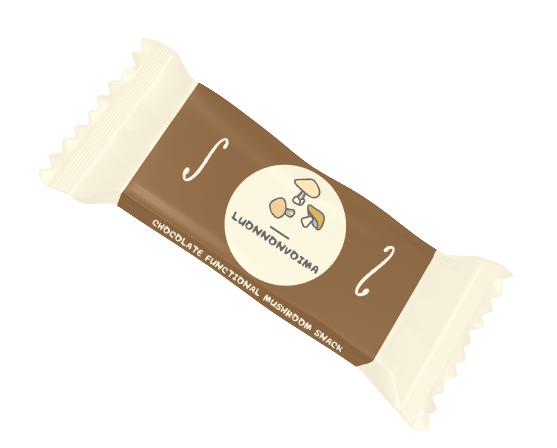
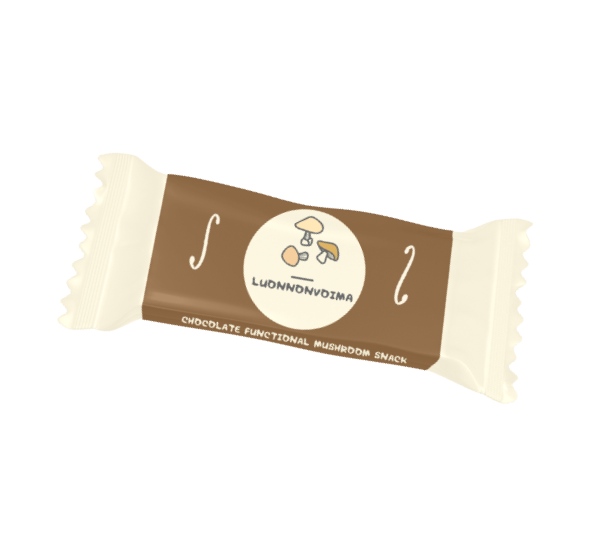
.

Changed region(s): [[0.061, 0.0625, 0.9156, 0.9688]]

diff --git a/product.php b/product.php
@@ -81,7 +81,7 @@ ExTrA chocolate bar is the ideal option for a guilt-free snack or a nutritious d
 <div class="w3-row-padding w3-light-grey w3-padding-64 w3-container">
   <div class="w3-content">
     <div class="w3-third w3-center">
-        <img src="regular.png">
+        <img src="regular.png" height="220" width="204">
     </div>
     <div class="w3-twothird">
       <h1>Classic Regular</h1>
